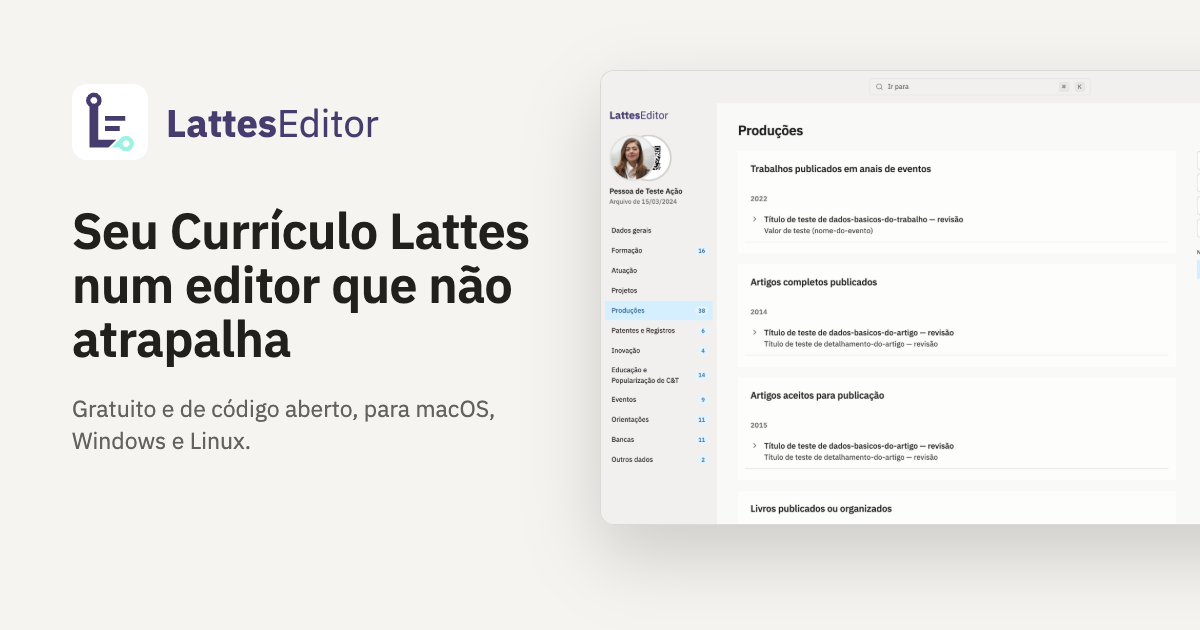
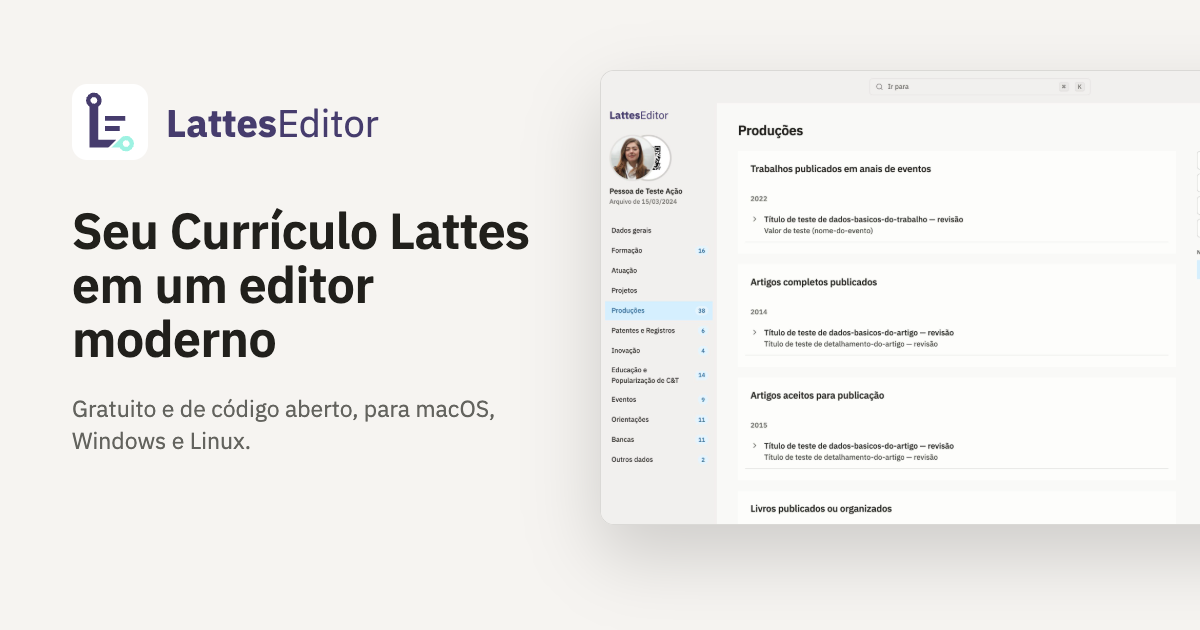
docs: título da página do projeto vira "Seu Currículo Lattes em um editor moderno"

Changed region(s): [[0.0617, 0.4222, 0.4317, 0.5127], [0.0617, 0.5127, 0.2467, 0.573]]

diff --git a/site/index.html b/site/index.html
@@ -155,7 +155,7 @@
       <section class="hero" aria-labelledby="titulo">
         <div class="wrap">
           <p class="eyebrow">Para quem faz ciência no Brasil</p>
-          <h1 id="titulo">Seu Currículo Lattes num editor que não atrapalha</h1>
+          <h1 id="titulo">Seu Currículo Lattes em um editor moderno</h1>
           <p class="lede">
             Abra a exportação do Lattes, ache qualquer item por seção ou por ano, cadastre produções
             a partir do DOI, revise o que mudou e leve de volta ao Lattes, pelo Importar ou pela

diff --git a/scripts/og-card.html b/scripts/og-card.html
@@ -82,7 +82,7 @@
         <img src="/site/favicon.svg" alt="" />
         <div class="word"><b>Lattes</b><span>Editor</span></div>
       </div>
-      <h1>Seu Currículo Lattes num editor que não atrapalha</h1>
+      <h1>Seu Currículo Lattes em um editor moderno</h1>
       <p>Gratuito e de código aberto, para macOS, Windows e Linux.</p>
     </div>
     <div class="shot"><img src="/site/img/editor-claro.jpg" alt="" /></div>
